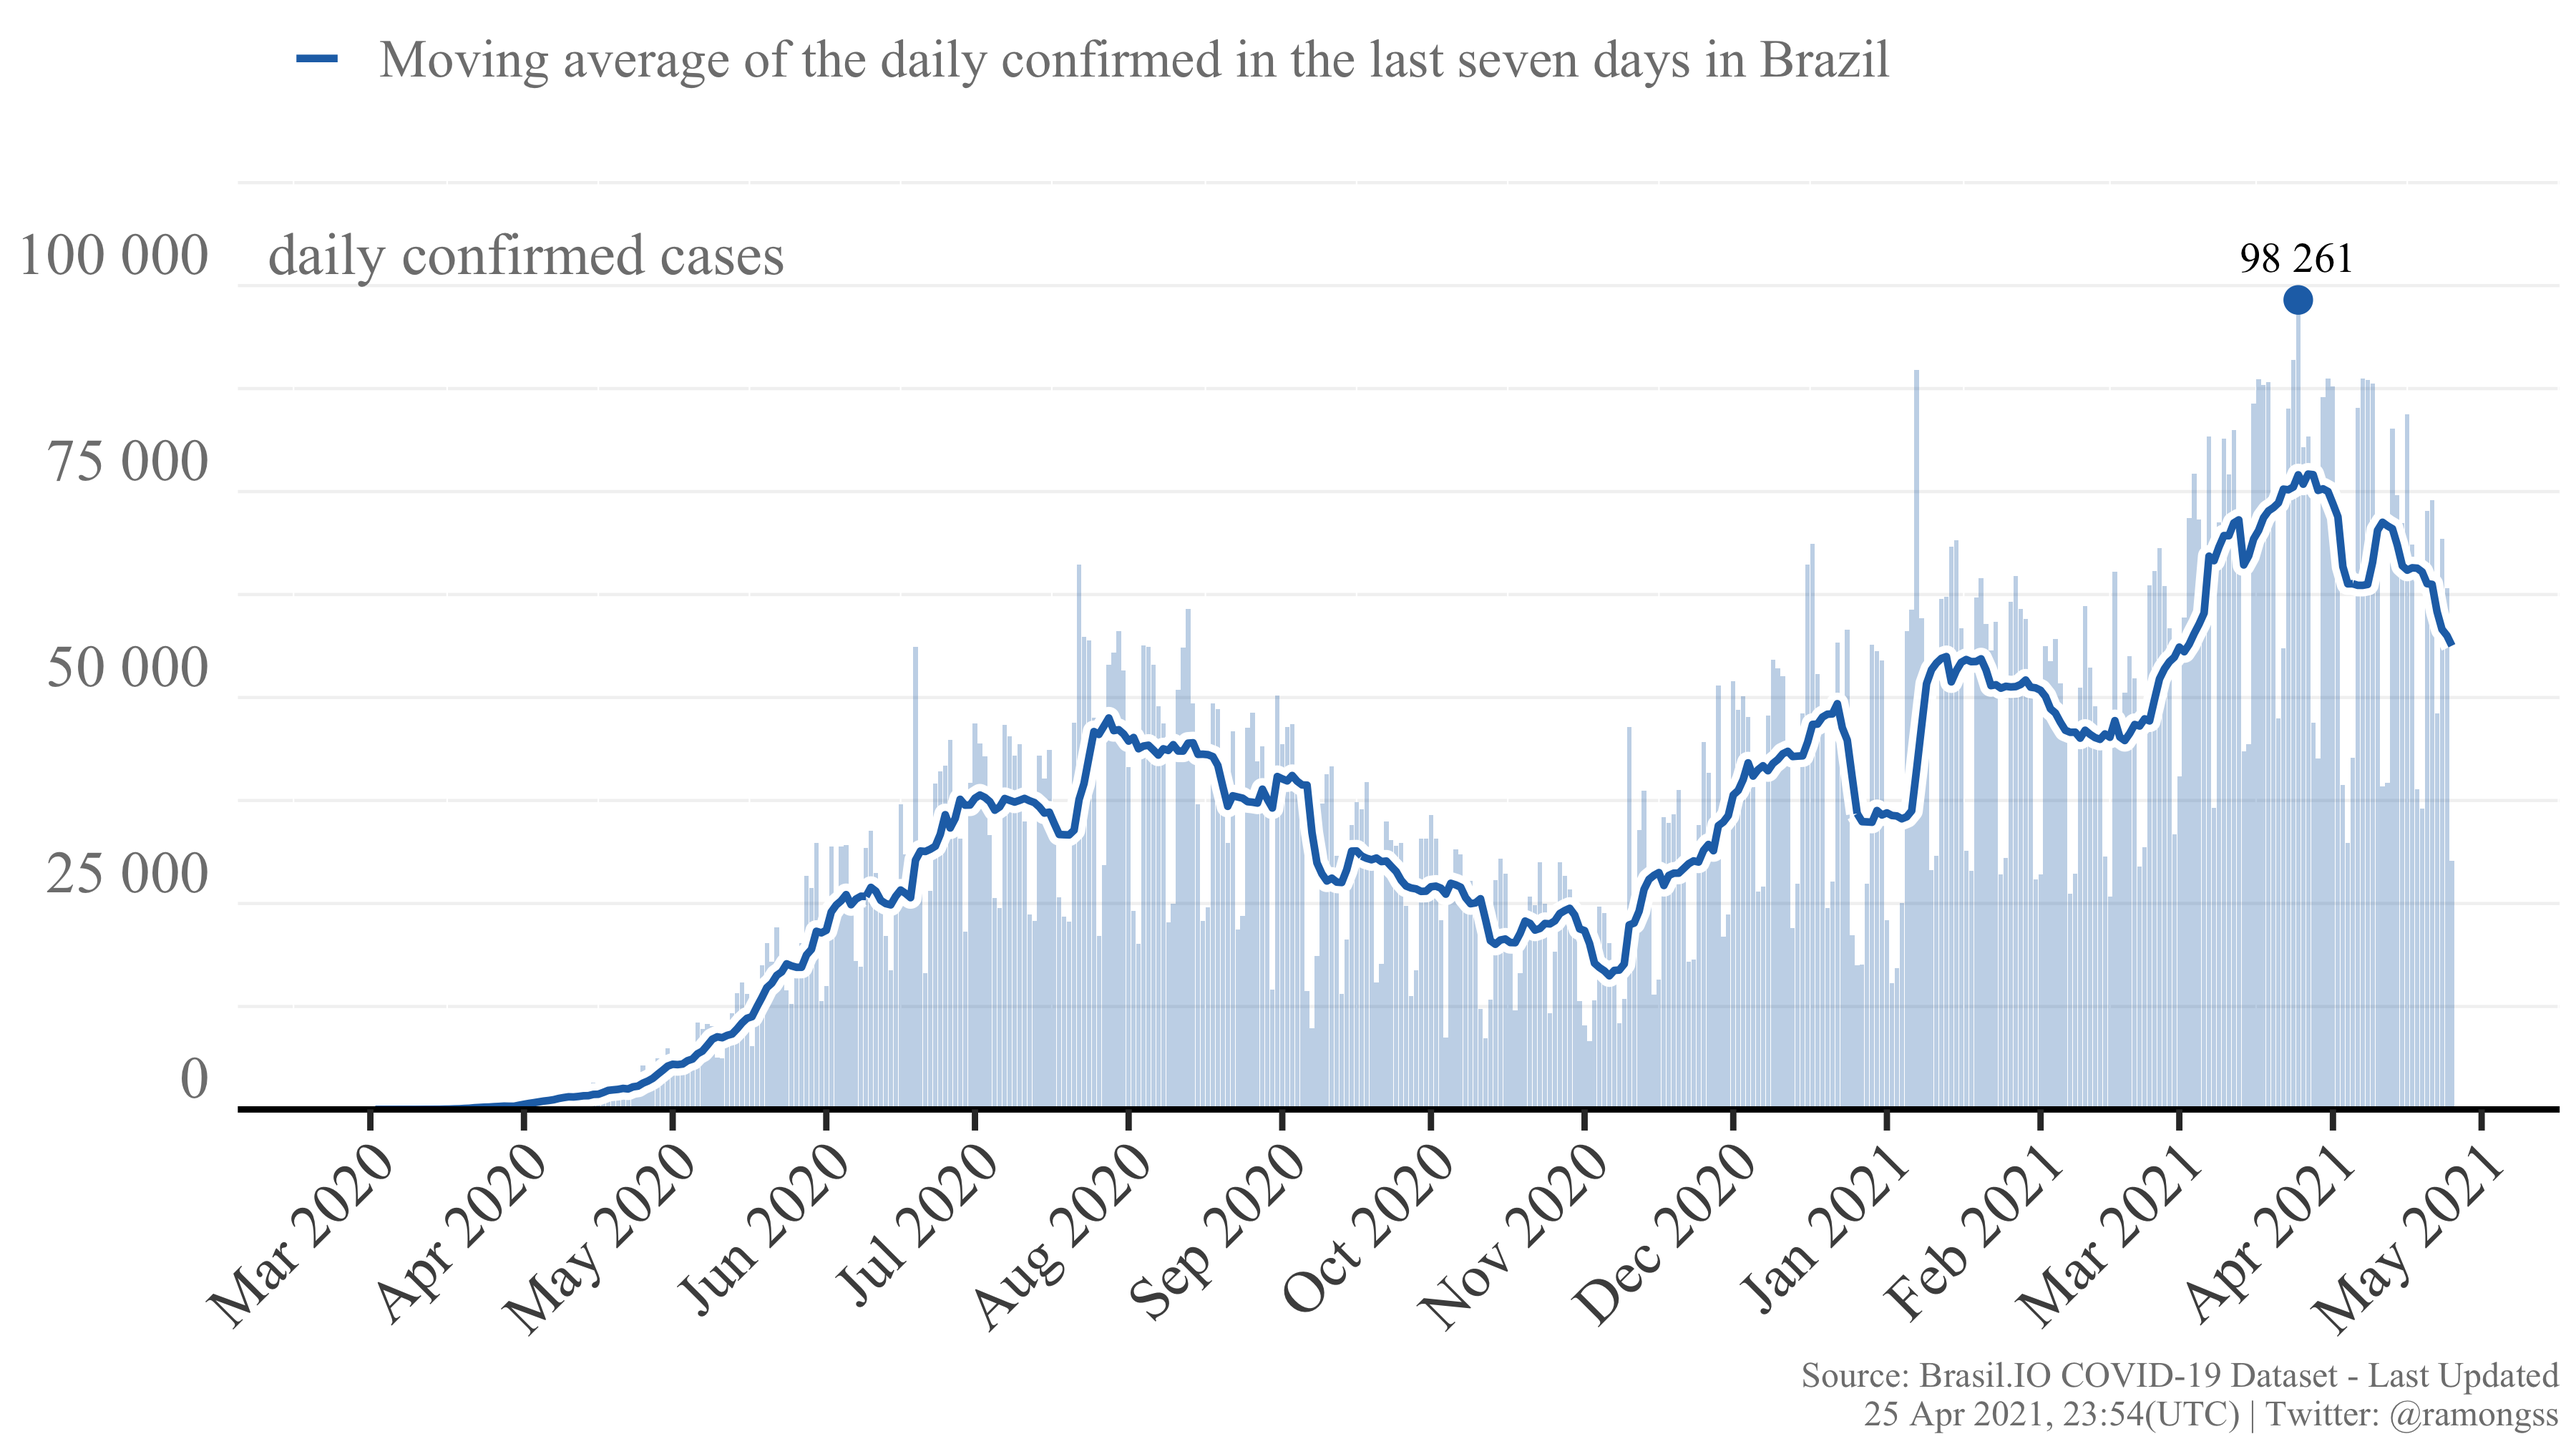
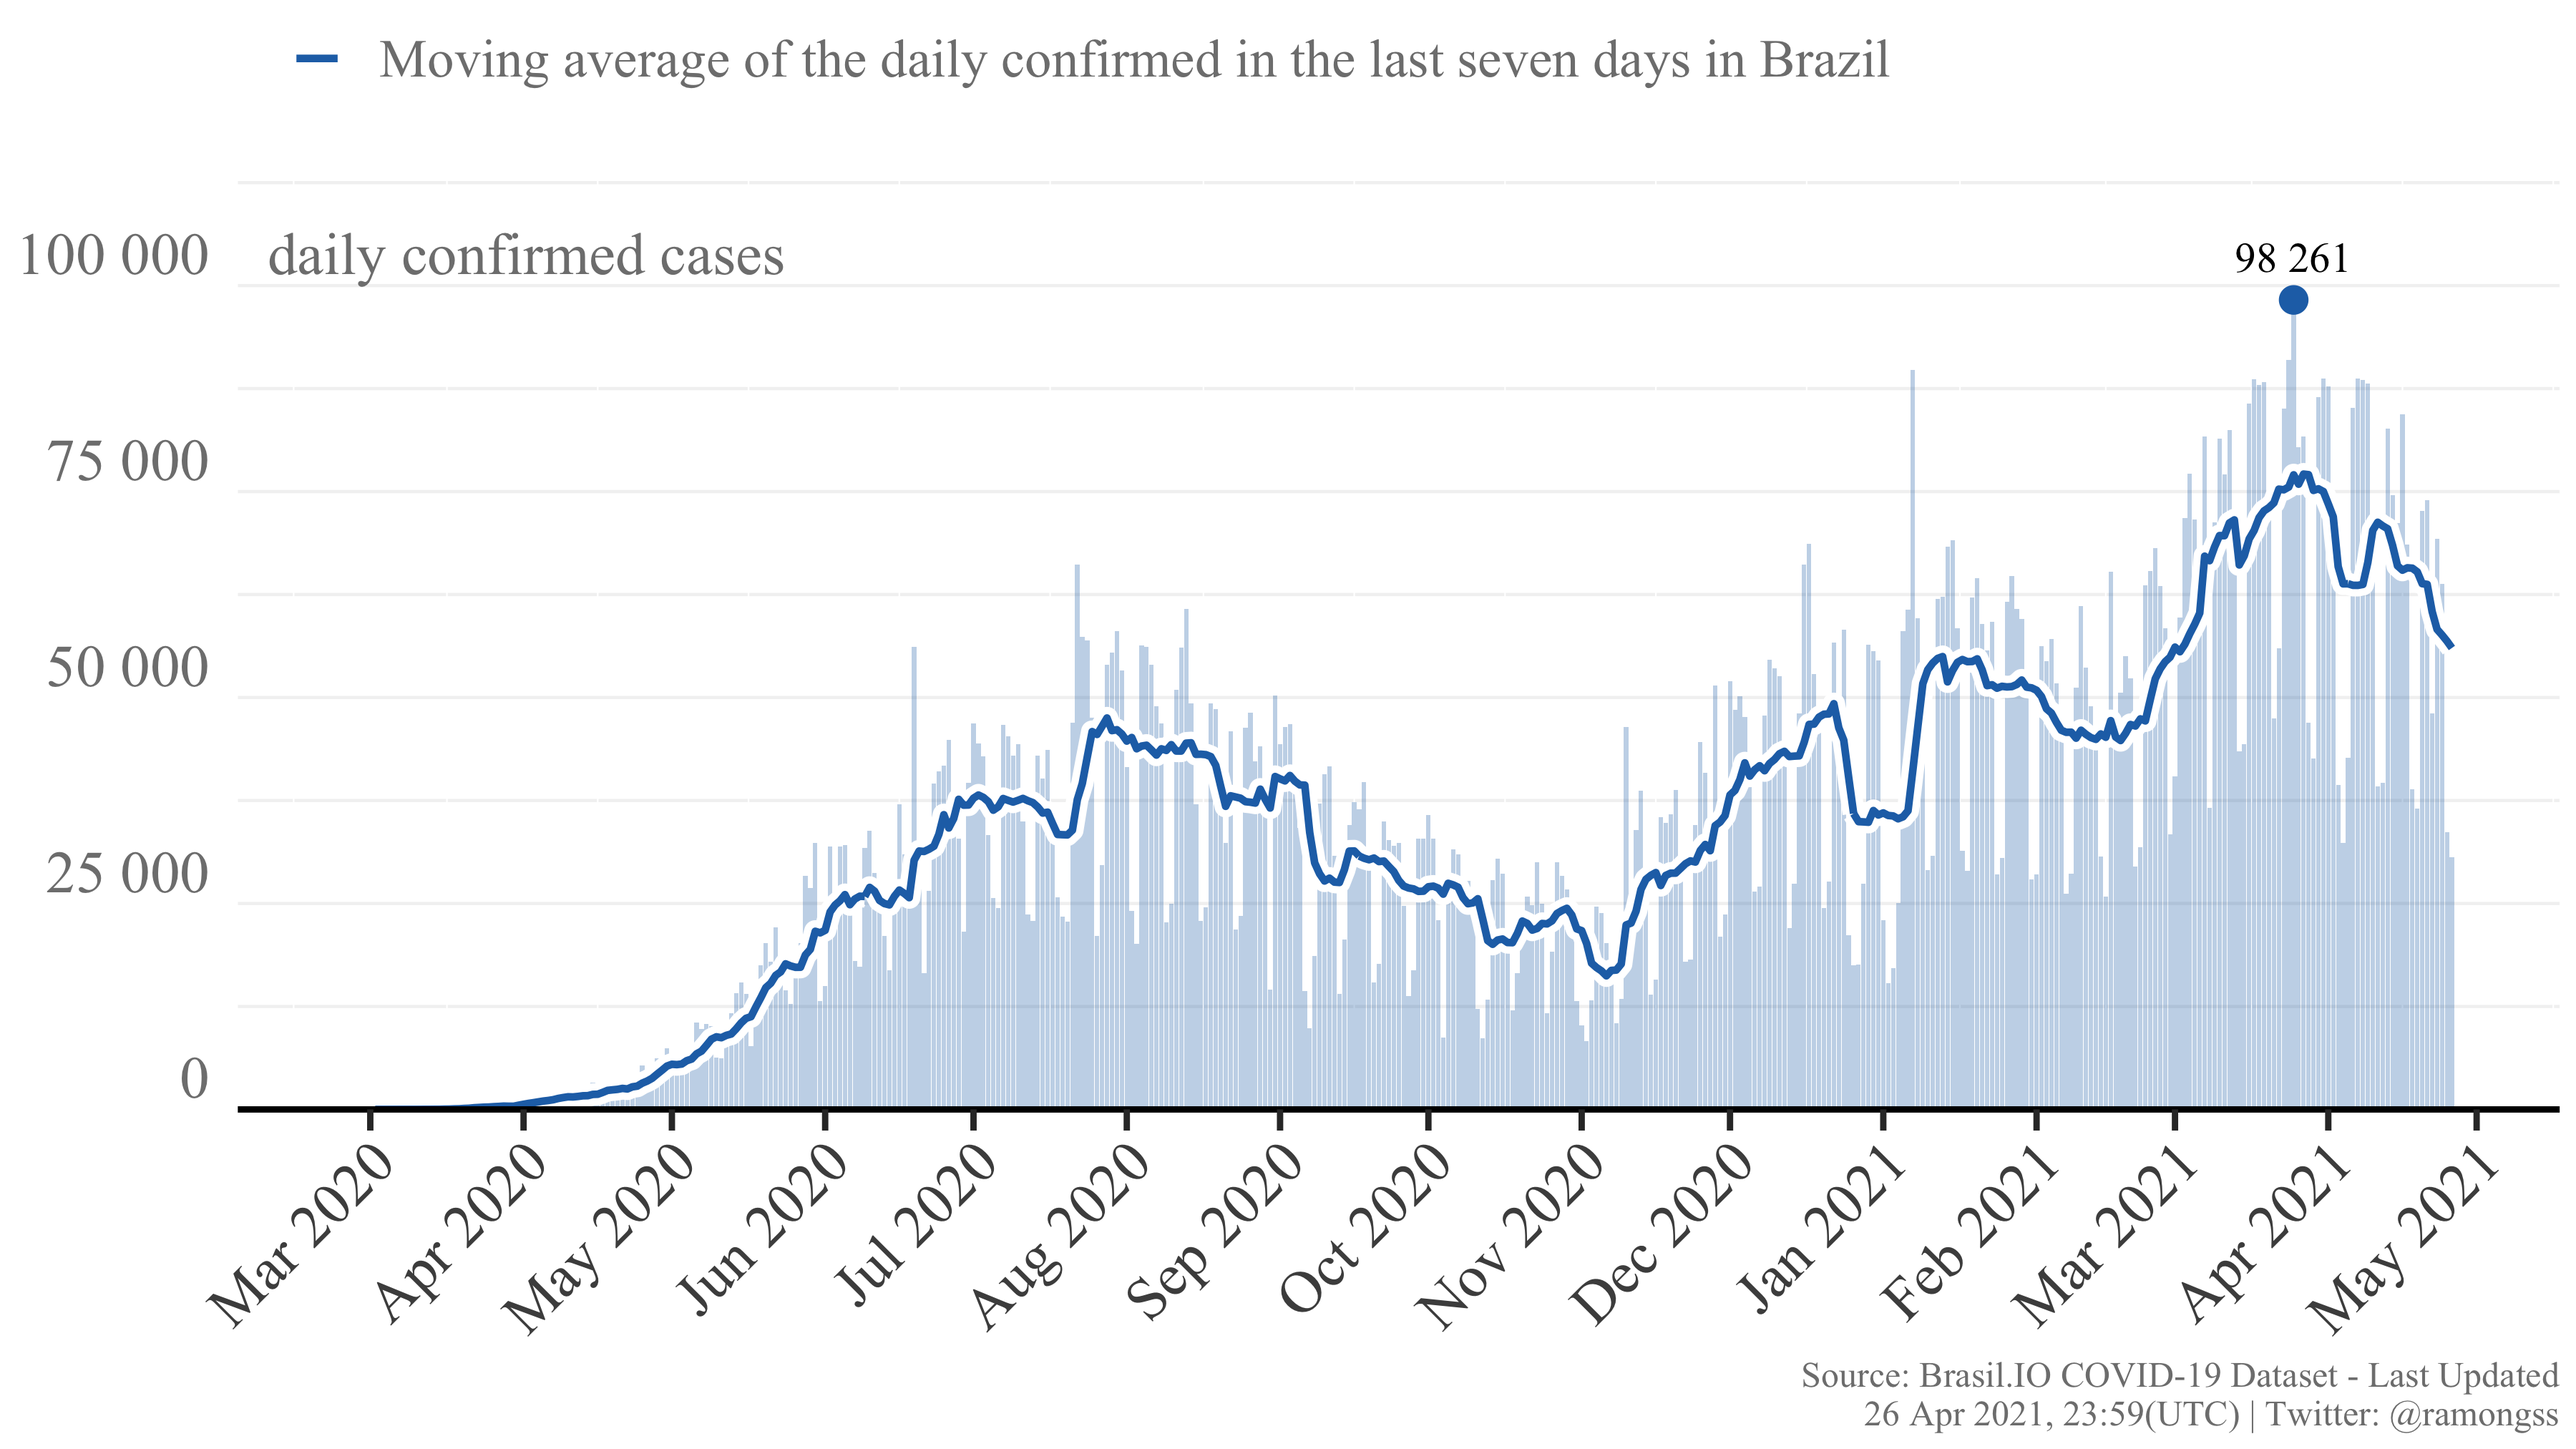
Re-build README.Rmd

diff --git a/README.md b/README.md
@@ -27,8 +27,8 @@ download_brasilio_table <- function(dataset = "covid19", table_name){
 
 ## COVID-19 Confirmed cases
 
-Currently, Brazil has a total of **14,344,983** confirmed cases at **25
-Apr, 2021**, with **30,203** new confirmed cases. The daily maximum
+Currently, Brazil has a total of **14,379,612** confirmed cases at **26
+Apr, 2021**, with **30,651** new confirmed cases. The daily maximum
 incidence was **98,261** confirmed cases at **25 Mar, 2021**. Here
 follows the Figure showing the confirmed case incidence as the bars, and
 the line as the moving average of the last 7 days.
@@ -37,8 +37,8 @@ the line as the moving average of the last 7 days.
 
 ## COVID-19 Deaths
 
-Currently, Brazil has a total of **391,068** deaths at **25 Apr, 2021**,
-with **1,238** new deaths. The daily maximum deaths incidence was
+Currently, Brazil has a total of **392,452** deaths at **26 Apr, 2021**,
+with **1,288** new deaths. The daily maximum deaths incidence was
 **4,148** deaths at **08 Apr, 2021**. Here follows the Figure showing
 the deaths incidence as the bars, and the line as the moving average of
 the last 7 days.
@@ -49,4 +49,4 @@ the last 7 days.
 
 This page is daily updated automatically using Github Actions.
 
-*Last update: 25 Apr 2021, 23:55 (UTC).*
+*Last update: 26 Apr 2021, 23:59 (UTC).*
